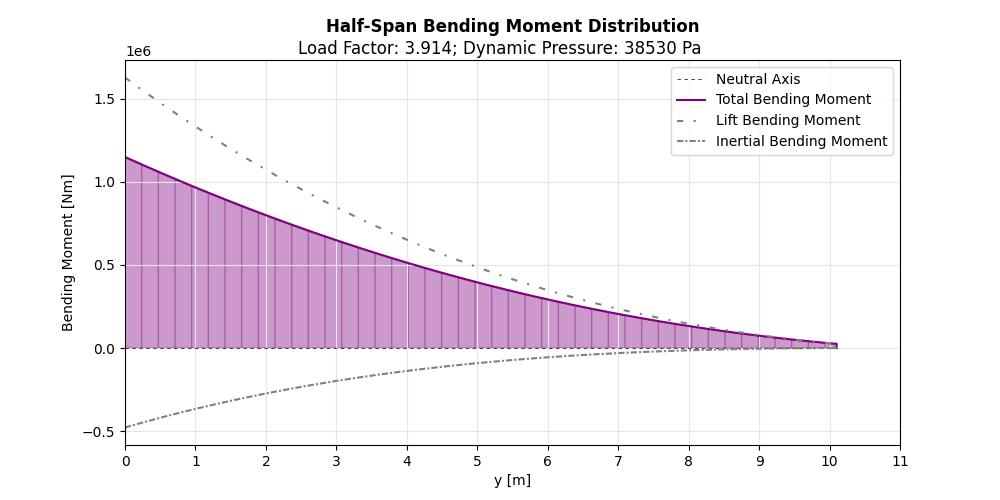
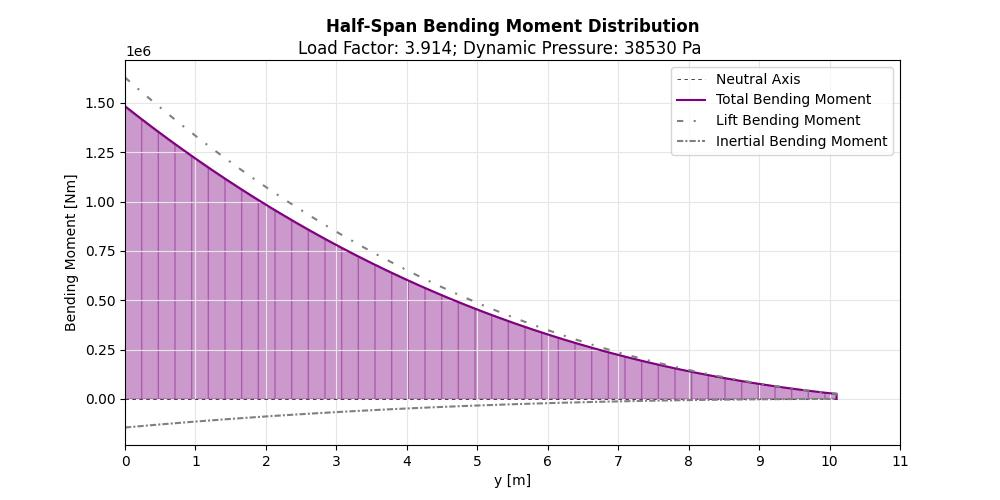
Finished stiffness calcs

Changed region(s): [[0.093, 0.18, 0.837, 0.87], [0.062, 0.36, 0.124, 0.66], [0.31, 0.39, 0.341, 0.42]]

diff --git a/codeinertia.py b/codeinertia.py
@@ -3,8 +3,10 @@ import scipy as sp
 import math as m
 from scipy import integrate
 
-from main import sum_moment1,torque_dist1,sum_moment2,torque_dist2
+from main import sum_shear1,sum_moment1,torque_dist1,sum_shear2,sum_moment2,torque_dist2
 
+sum_shear1=sum_shear1[0:400]
+sum_shear2=sum_shear2[0:400]
 sum_moment1=sum_moment1[0:400]
 torque_dist1=torque_dist1[0:400]
 sum_moment2=sum_moment2[0:400]
@@ -57,17 +59,21 @@ h_rear = h2 * c
 up_beam = w1 * c
 low_beam = w2 * c
 
+l_top=w1*c
+l_bot=w2*c
+
+area_skin = (h_front+h_rear)*t_spar+(up_beam+low_beam)*t
 area = (h_front+h_rear)*t_spar+(up_beam+low_beam)*t+A_stringer*n
 volume = 2*(np.trapz(area,y)) # Full span volume
 print("\nStructure Volume:",str(volume),"[m^3]")
-print("Structure Weight:",str(volume*2800),"[kg]\n")
+print("Structure Weight:",str(volume*2700),"[kg]\n")
 
 # print(h_front)
 # print(h_rear)
 
 ds = h_front + h_rear + up_beam + low_beam
 enc_area = (h_front + h_rear)/2 * (X2-X1) * c
-J = 4 * (enc_area)**2 * (t / ds)
+J = 4 * (enc_area)**2 / (h_front/t_spar + h_rear/t_spar + up_beam/t + low_beam/t)
 
 left_ax = t_spar * h_front * X1 * c # Centroid stuff
 left_a = t_spar * h_front # Area
@@ -91,6 +97,14 @@ sum_ay = left_ay + right_ay + top_ay + bot_ay
 
 x_axis = sum_ax / sum_a
 y_axis = sum_ay / sum_a
+
+x_ctr = (x_axis/c)[0]
+y_ctr = (y_axis/c)[0]
+
+# print(x_ctr)
+# print(y_ctr)
+
+# print(x_axis)
 
 I_y_bot = 0
 I_y_top = 0
@@ -117,6 +131,9 @@ bot_stringer_distance = (bot_y0 - bot_end) /(n-1)
 
 bot_dist = bot_y0
 
+# print(bot_y0)
+# print("\n")
+
 l = n
 while l > 0.1 :
     I_stringer_bot = A_stringer * bot_dist**2
@@ -139,6 +156,8 @@ I_wingbox = I_wingbox_l + I_wingbox_r + I_wingbox_u + I_wingbox_d
 
 I = I_wingbox + I_stringers
 
+V1 = sum_shear1
+V2 = sum_shear2
 T1 = torque_dist1
 T2 = torque_dist2
 M1 = sum_moment1
@@ -165,11 +184,151 @@ def mov(T,M):
     
     return theta,v
 
+# def vstress(V):
+    
+    up_y0= h_front-y_axis
+    low_y0= -y_axis
+    
+    Bc=area_skin/4
+    Bs=A_stringer
+    
+    a_dist = np.zeros((400,n+2))
+    
+    a_dist[:,0]=Bc
+    a_dist[:,n+1]=Bc
+    
+    for i in range(n):
+        a_dist[:,i+1]=Bs
+        
+    # print(a_dist)
+    
+    up_end = up_y0+(X2-X1)*c*top_slope
+    bot_end = low_y0+(X2-X1)*c*bot_slope
+    
+    y_loc_top = np.linspace(up_y0,up_end,n+2)
+    y_loc_top = y_loc_top.transpose()
+    y_loc_bot = np.linspace(low_y0,bot_end,n+2)
+    y_loc_bot = y_loc_bot.transpose()
+    
+    top_sum=np.sum((y_loc_top*a_dist),axis=1)
+    bot_sum=np.sum((y_loc_bot*a_dist),axis=1)
+    
+    funcsum = top_sum+bot_sum
+    k=-(V/I)
+    
+    qb = k*funcsum
+    
+    print(qb)
+    
+    return
+
+# def qshear(V):
+    
+    # Geometric Calculations
+    up_y0 = h_front - y_axis
+    low_y0 = -y_axis
+    
+    upsl = np.tan(top_slope)
+    dnsl = np.tan(bot_slope)
+    
+    n_up_y0 = up_y0+(x_axis-X1*c)*upsl
+    n_low_y0 = low_y0+(x_axis-X1*c)*bot_slope
+    
+    up_end = up_y0+(X2-X1)*c*top_slope
+    bot_end = low_y0+(X2-X1)*c*bot_slope
+    
+    # Calculating qb
+    
+    int1 = (X1*c-x_axis)*(low_y0-up_y0)*t_spar
+    int2 = 0.5*bot_slope*((x_axis-X1*c)**2+(X2*c-x_axis)**2)*t
+    int3 = (X2*c-x_axis)*(up_y0-low_y0)*t_spar
+    int4 = 0.5*top_slope*((X2*c-x_axis)**2+(x_axis-X1*c)**2)*t
+    
+    sum_int=int1+int2+int3+int4
+    k=-(V/I)
+    qb=k*sum_int
+    
+    # Calculating qs - cut at top left corner
+    
+    r2 = h_front
+    r3 = (X2-X1)*c
+    
+    q2=k*int2
+    q3=k*int3
+    
+    qs = (r2*q2+r3*q3)/(-2*enc_area)
+    
+    # print(qs)
+    
+    q=qb+qs 
+    # print(q)
+    
+    return q
+
+def fq1(s,k):
+    f=k*t_spar*((s)**2)/2
+    return f
+
+def fq2(s,k):
+    f=k*t*(h_front/2*s-(s**2)/2*(h_front/2-h_rear/2)/w1)
+    return f
+
+def fq3(s,k,q2):
+    f=k*t_spar*(h_rear/2*s-(s**2)/2)+q2
+    return f
+
+def qshear(V):
+    
+    k=-(V/I)
+    
+    q01=fq1(h_front/2,k)
+    q12=fq2(w1,k)
+    q23=fq3(0,k,q12)
+    
+    # print(q12)
+    
+    int1=np.zeros(400)
+    int2=np.zeros(400)
+    int3=np.zeros(400)
+    
+    for i in range(400): # Calculate qs0
+        int1[i]=sp.integrate.quad(lambda s: k[i]*t_spar*(s**2)/2*(x_axis[i]-X1*c[i]),0,h_front[i]/2)[0]
+        
+        h1=h_front[i]/2-(h_front[i]/2-h_rear[i]/2)/((X2-X1)*c[i])*(x_axis[i]-X1*c[i])
+        int2[i]=sp.integrate.quad(lambda s: k[i]*t*((h_front[i]/2)*s-(s**2)/2*((h_front[i]/2-h_rear[i]/2)/l_top[i]))*h1*(X2-X1)*c[i]/l_top[i],0,l_top[i])[0]
+        
+        int3[i]=sp.integrate.quad(lambda s: k[i]*t_spar*(h_rear[i]/2*s-(s**2)/2)+q12[i],0,h_rear[i]/2)[0]
+    
+    qs0=-2*(int1+int2+int3)/enc_area
+    
+    qa = q01+qs0
+    qb = q12+qs0
+    qc = q23+qs0
+    
+    # print(qa)
+    # print(qb)
+    # print("\n")
+    
+    qa_max=max(abs(qa))
+    qb_max=max(abs(qb))
+    
+    q=(max(qa_max,qb_max))
+    
+    return q
+
+q1=qshear(V1)
+q2=qshear(V2)
+
 theta1,v1=mov(T1,M1)
 
 theta2,v2=mov(T2,M2)
 
 ##### Internal Stresses
+
+# Shear V
+
+vtau1 = q1/(min(t,t_spar))/10**6
+vtau2 = q2/(min(t,t_spar))/10**6
 
 # Bending Mx
 
@@ -182,13 +341,10 @@ sigma_max2 = round(max(sigma_y2)/10**6, 2)
 # Torsion T
 
 tau1 = T1 / (2*enc_area*t)
-tau_max1 = round(min(tau1)/10**6, 2)
+tau_max1 = round(min(tau1)/10**6, 2)-vtau1
 
 tau2 = T2 / (2*enc_area*t)
-tau_max2 = round(min(tau2)/10**6, 2)
-
-# print(sigma_y)
-# print(I)
+tau_max2 = round(min(tau2)/10**6, 2)-vtau2
 
 print("### Bending Limiting ###\n")
 
@@ -196,10 +352,12 @@ print('Angle of twist is', np.sum(theta1), '[rad]')
 print('Deflection is', np.sum(v1), '[m]')
 print('Maximum normal stress due to bending is',sigma_max1,'[MPa]')
 print('Maximum shear stress due to torsion is',tau_max1,'[MPa]\n')
+print('Tau contribution due to shear: ',-1*vtau1,'[MPa]')
 
 print("### Torsion Limiting ###\n")
 
 print('Angle of twist is', np.sum(theta2), '[rad]')
 print('Deflection is', np.sum(v2), '[m]')
 print('Maximum normal stress due to bending is',sigma_max2,'[MPa]')
-print('Maximum shear stress due to torsion is',tau_max2,'[MPa]')
+print('Maximum shear stress due to torsion is',tau_max2,'[MPa]\n')
+print('Tau contribution due to shear: ',-1*vtau2,'[MPa]\n')

diff --git a/main.py b/main.py
@@ -72,6 +72,12 @@ def calcForces(sf,nload,q,CL):
         structure_shear[i]=structureshear(y[i],a,structure_density,g,cr,b,taper,wlt_weight)
         structure_moment[i]=structureMoment(y[i],a,structure_density,g,cr,b,taper,wlt_weight)
 
+    fuelcheck=float(input("Fuel Percentage: "))
+    fuel_load=fuel_load*fuelcheck/100
+    fuel_shear=fuel_shear*fuelcheck/100
+    fuel_moment=fuel_moment*fuelcheck/100
+    # print(fuel_load)
+
     inertial_load=(fuel_load+structure_load)*nload
     inertial_shear=(fuel_shear+structure_shear)*nload
     inertial_moment=(fuel_moment+structure_moment)*nload
@@ -94,16 +100,18 @@ def calcForces(sf,nload,q,CL):
     ######## Final Distributions
 
     sum_load = inertial_load - L_prime #n=400
-    sum_shear = inertial_shear + shear_dist #n=401 
+    sum_shear = inertial_shear + shear_dist #n=401
     sum_moment = inertial_moment + bending_dist #n=401
     torque_dist+=winglet_m_torque*nload
     torque_dist[400]=0
+    
+    plt.show()
     
     return sum_load,sum_shear,sum_moment,torque_dist,shear_dist,inertial_shear,bending_dist,inertial_moment
 
 sum_load1,sum_shear1,sum_moment1,torque_dist1,lift_shear1,inertial_shear1,lift_moment1,inertial_moment1=calcForces(1.5,nload1,q,CL1)
 sum_load2,sum_shear2,sum_moment2,torque_dist2,lift_shear2,inertial_shear2,lift_moment2,inertial_moment2=calcForces(1.5,nload2,q,CL2)
-sum_load3,sum_shear3,sum_moment3,torque_dist3,lift_shear3,inertial_shear3,lift_moment3,inertial_moment3=calcForces(1.5,nload3,q3,CL3)
+# sum_load3,sum_shear3,sum_moment3,torque_dist3,lift_shear3,inertial_shear3,lift_moment3,inertial_moment3=calcForces(1.5,nload3,q3,CL3)
 
 # Plotting
 
